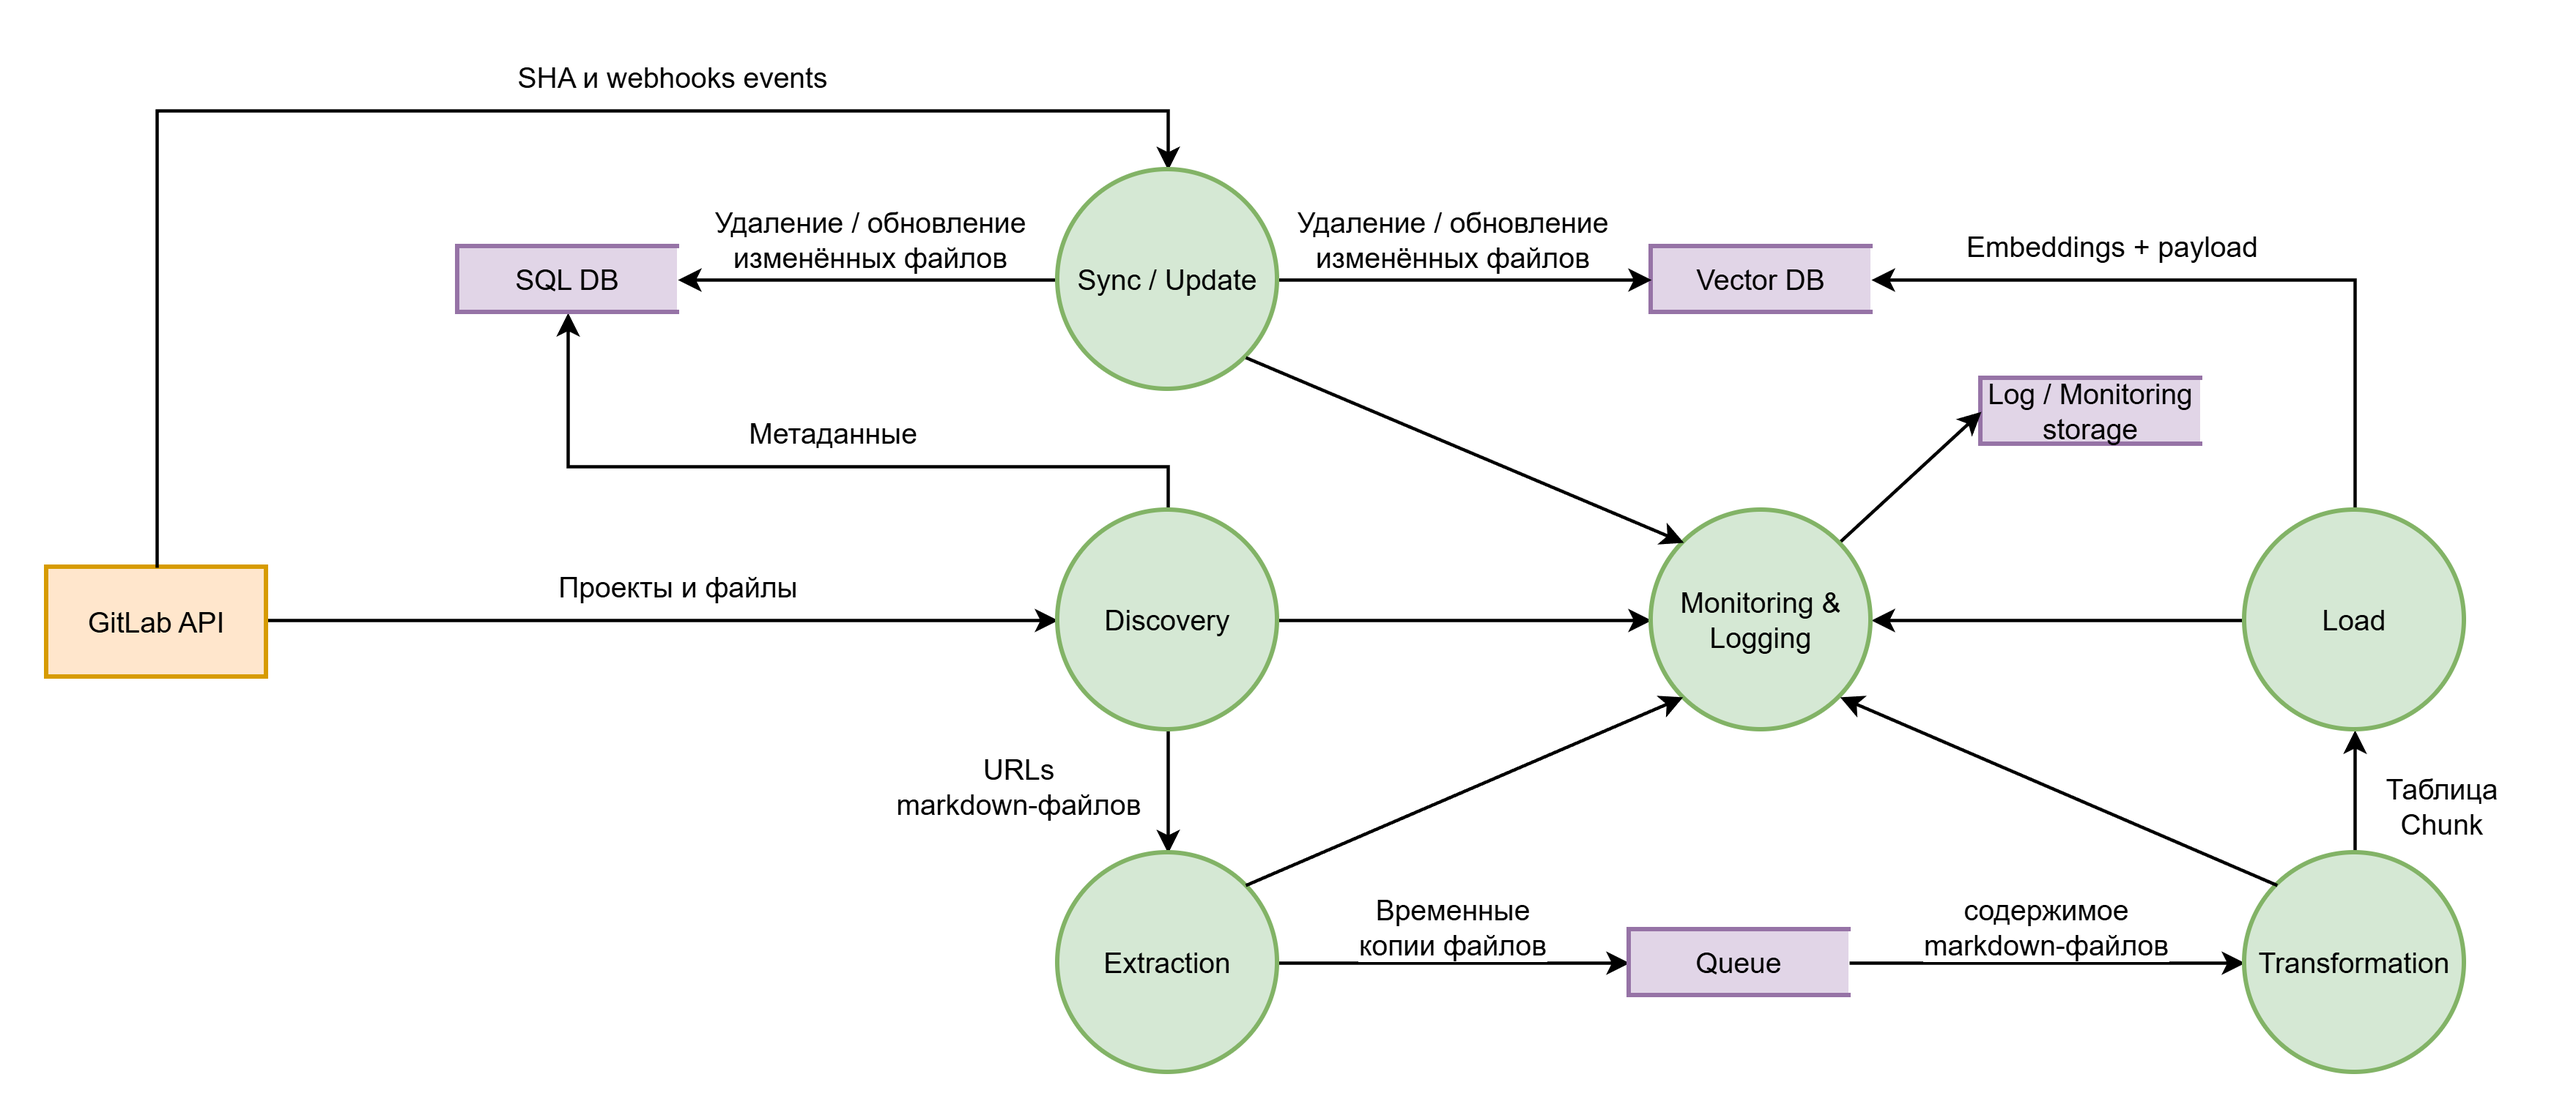
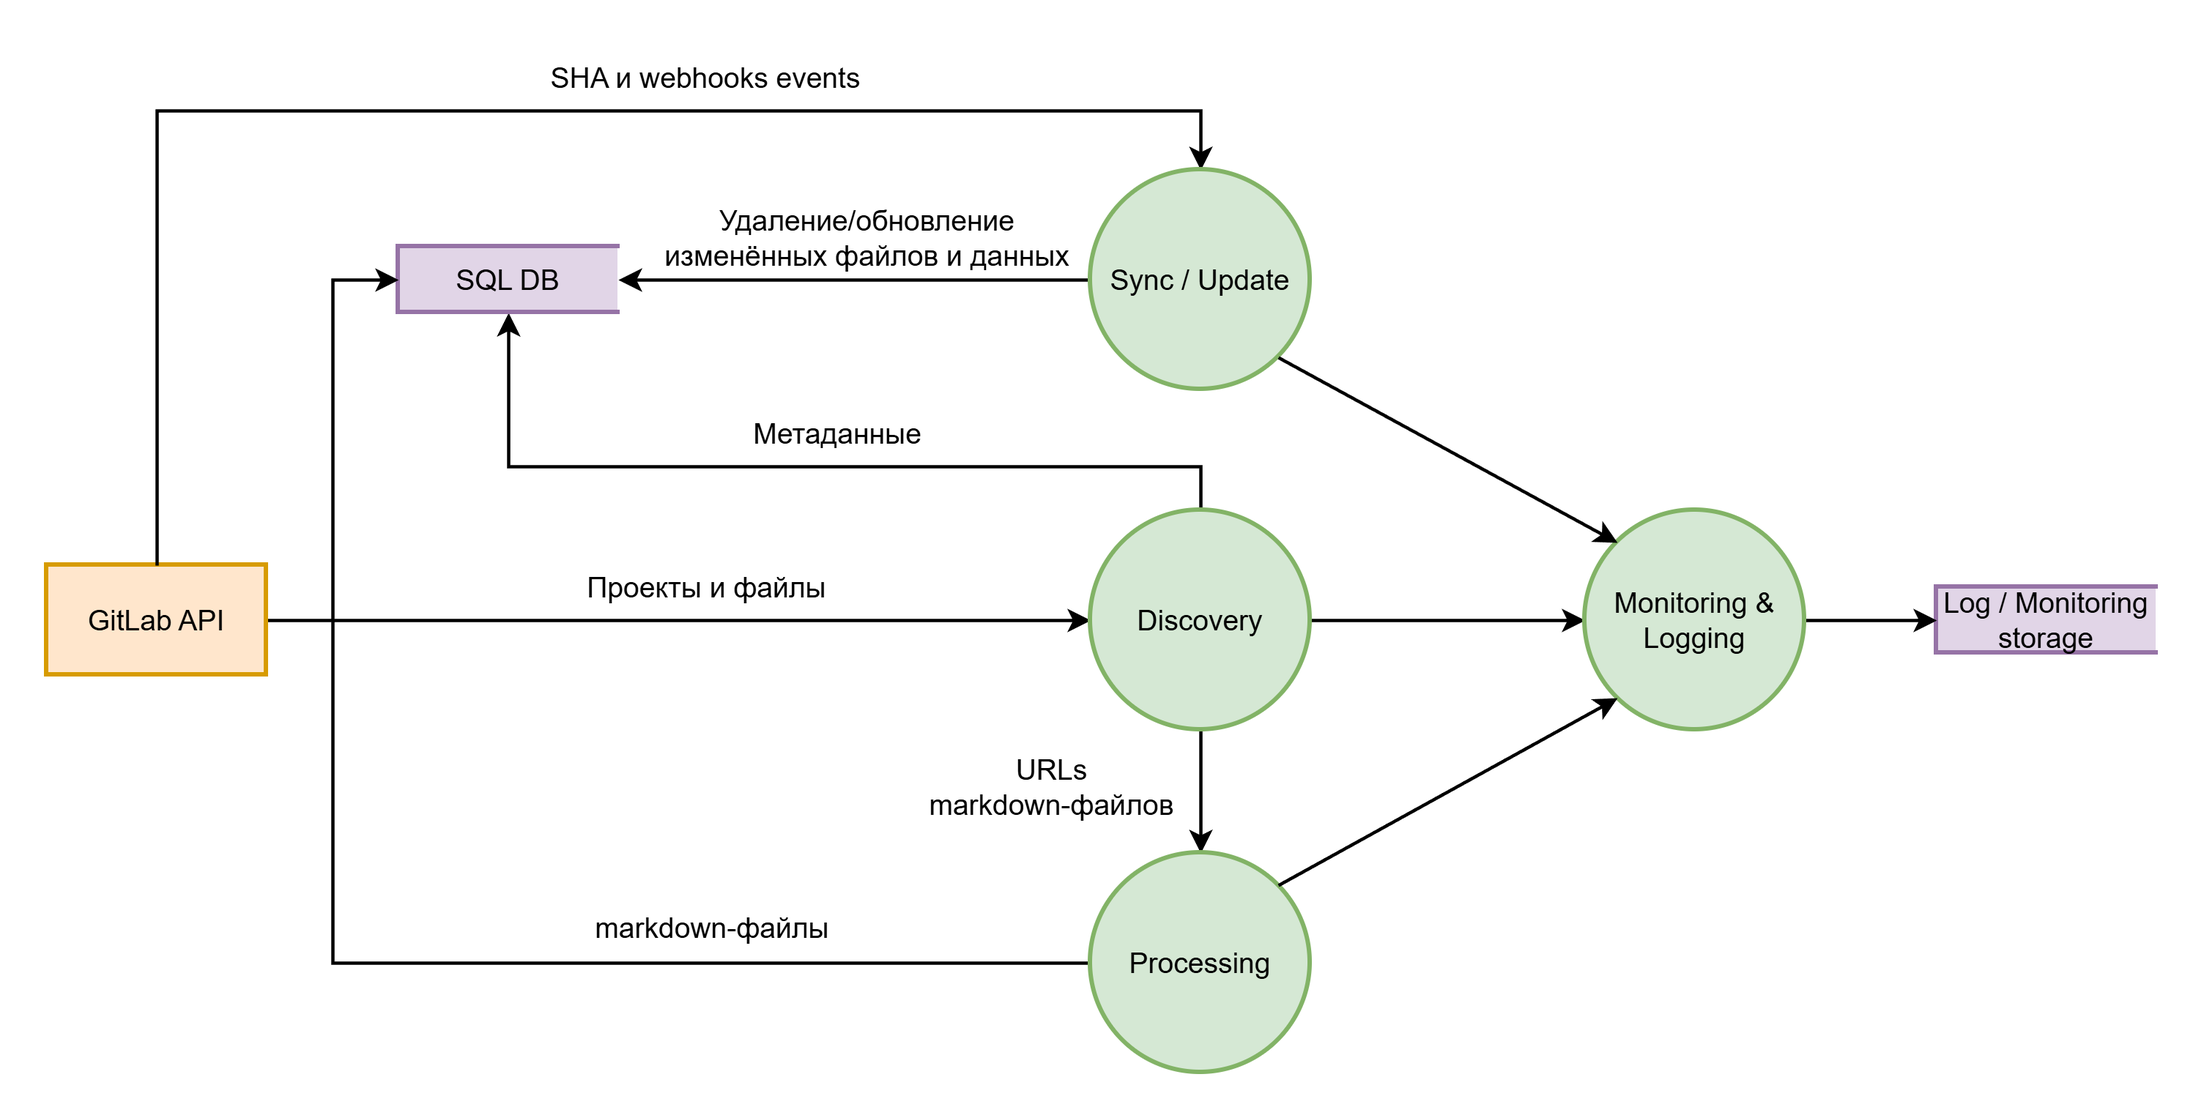
docs: update DFD and ER-diagrams

diff --git a/docs/investigations/DataCollection.md b/docs/investigations/DataCollection.md
@@ -81,7 +81,7 @@ Commits: https://docs.gitlab.com/api/commits/
 	3. Фильтр по .md
 	4. Сбор метаданных (для таблиц group, project, file, author и commit)
 	5. загрузка метаданных в БД
-2. Processing (Извлечение и обработка .md файлов)
+2. Processing (Извлечение и загрузка .md файлов)
 	1. Скачивание через `raw_url`
 	2. Сохранение в БД
 3. Sync / Update (Инкрементальные обновления)
